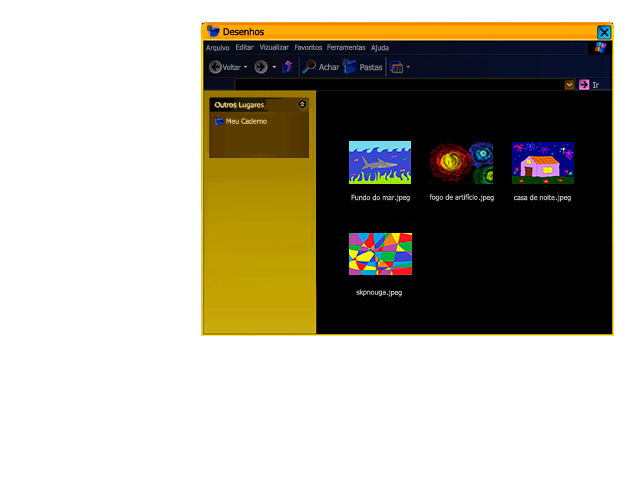
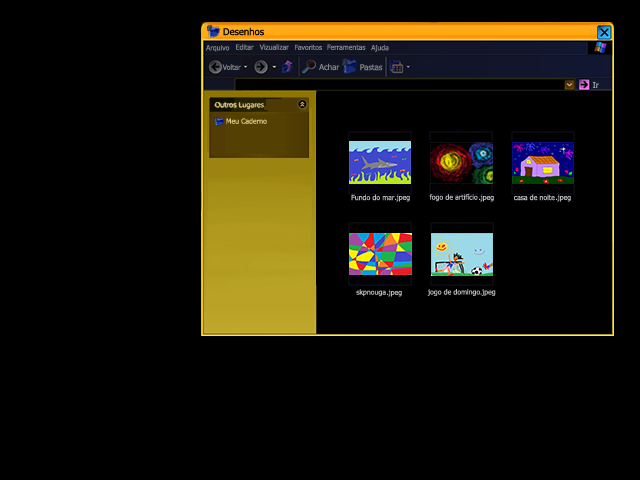
Substitui a imagem pasta_desenho.png
troca pela mais recente com as cinco miniaturas

diff --git a/area_trabalho.html b/area_trabalho.html
@@ -39,9 +39,12 @@
                         <img src="imagens/mensageiro.png"/>
                     </a>
 
+                    <!--INSERIR O ÍCONE DO PALAVRA com link para tiamarcela/semtitulo-->
+                    <!--
                     <a href="semtitulo.html">
-                        <img src="#" />
+                        <img src="imagens/palavra.png" />
                     </a>
+                    -->
 
                 </div>
 				
